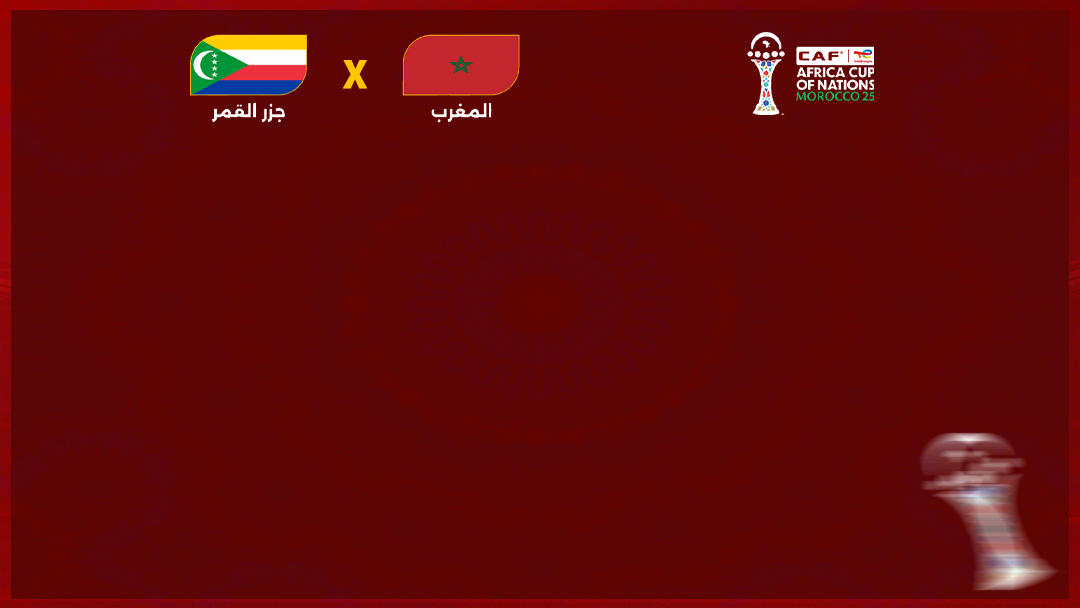
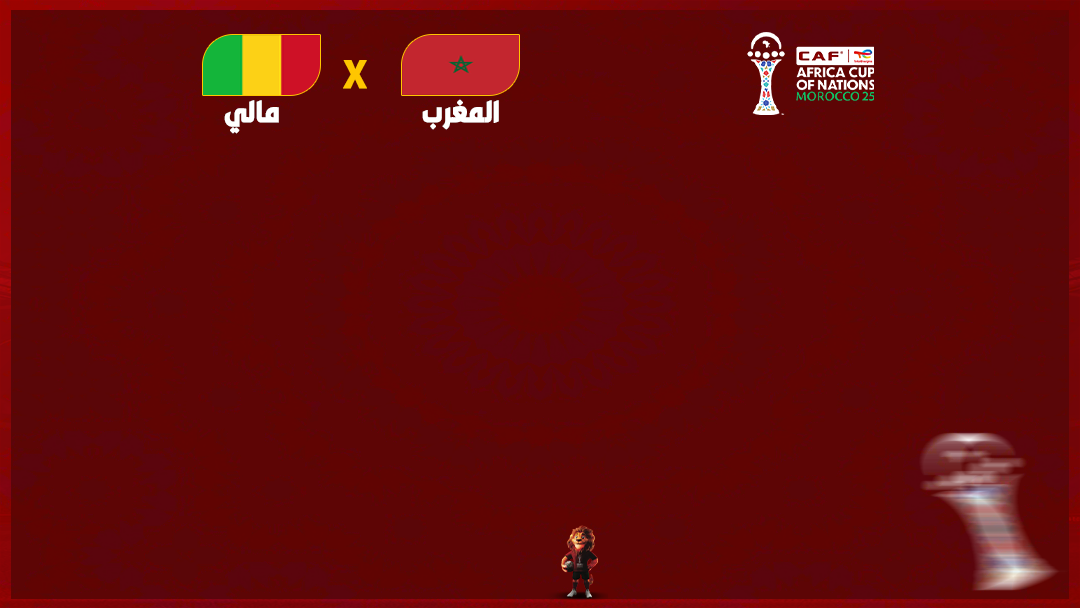
update bg

diff --git a/src/components/Player.tsx b/src/components/Player.tsx
@@ -160,12 +160,9 @@ const Root = styled.div<PlayerType>`
     left: ${(p) => p.x}%;
     transform-style: preserve-3d;
     transform-origin: 50% 0;
-    /* Use translate for smooth movement */
-    transform: translate(${(p) => p.x}%, ${(p) => p.y}%) translateY(15%) ${getTransformString(defaultTransform)};
+    transform: translateY(15%) ${getTransformString(defaultTransform)};
     opacity: ${(p) => (p.visible ? 1 : 0)};
-    /* Disable transition while dragging, use GPU acceleration */
-    transition: ${(p) => (p.dragging ? 'none' : 'transform 300ms ease, opacity 300ms ease')};
-    will-change: transform;
+    transition: ${(p) => (p.dragging ? 'none' : 'all 600ms')}; // <-- disable transition when dragging
     transition-delay: ${(p) => (p.dragging ? 0 : p.i * 20)}ms;
 
     ${(p) => !p.visible && 'pointer-events: none;'}
@@ -174,7 +171,6 @@ const Root = styled.div<PlayerType>`
     ${(p) => p.mouseOver && !p.active && `${Name} {${nameHoverStyles}}`}
     ${(p) => p.focusing && !p.active && playerInactiveStyles};
 `;
-
 
 const Number = styled.div<{ bgColor: string }>`
     position: absolute;

diff --git a/src/components/Formations.tsx b/src/components/Formations.tsx
@@ -7,7 +7,7 @@ import { useTracked, actions } from 'state';
 const Formations = () => {
     const [{ formations, activeFormationId, activeTeamId }, dispatch]: any = useTracked();
 
-    const handleClick = formationId => {
+    const handleClick = (formationId: any) => {
         dispatch({ type: actions.SET_TEAM_FORMATION, value: formationId });
     };
 

diff --git a/src/components/Players.tsx b/src/components/Players.tsx
@@ -56,6 +56,7 @@ const Players: React.FC<Props> = () => {
       {team.players.map((p, i) => (
         <Player
             {...p}
+            key={p.id}
             id={p.id}
             x={playerPositions[p.id] ? playerPositions[p.id].x : 0}
             y={playerPositions[p.id] ? playerPositions[p.id].y : 0}
